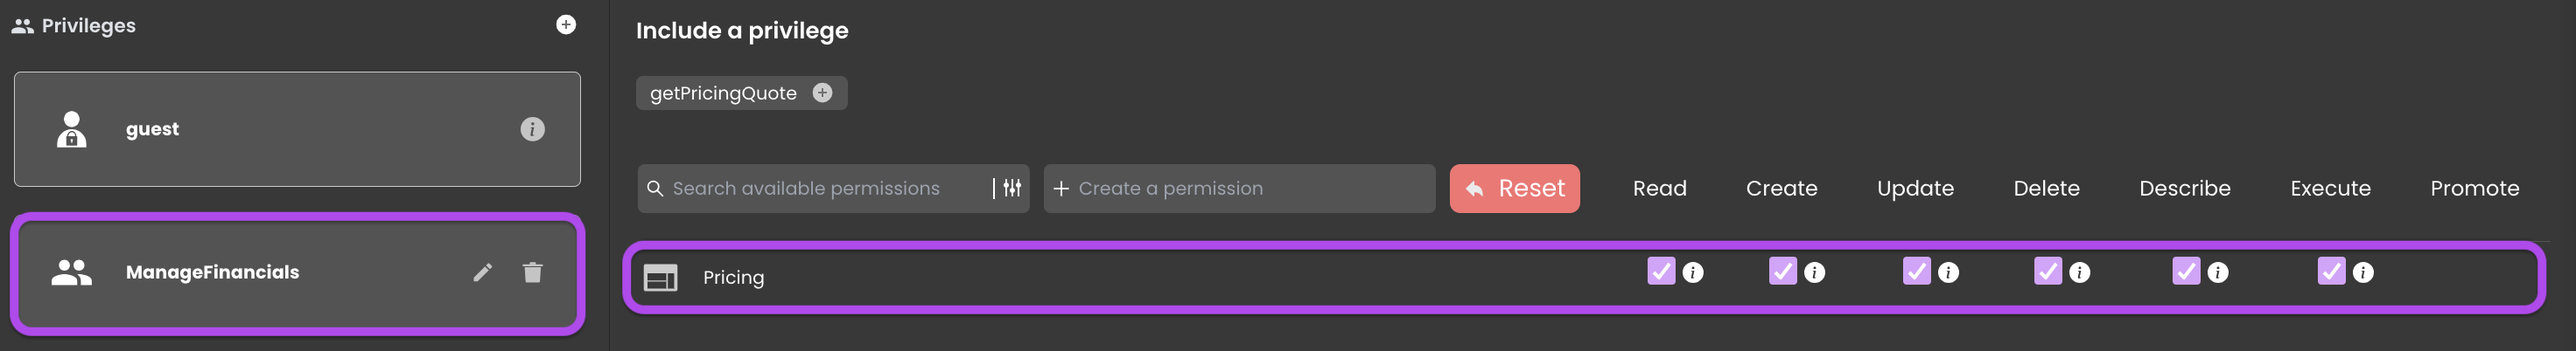
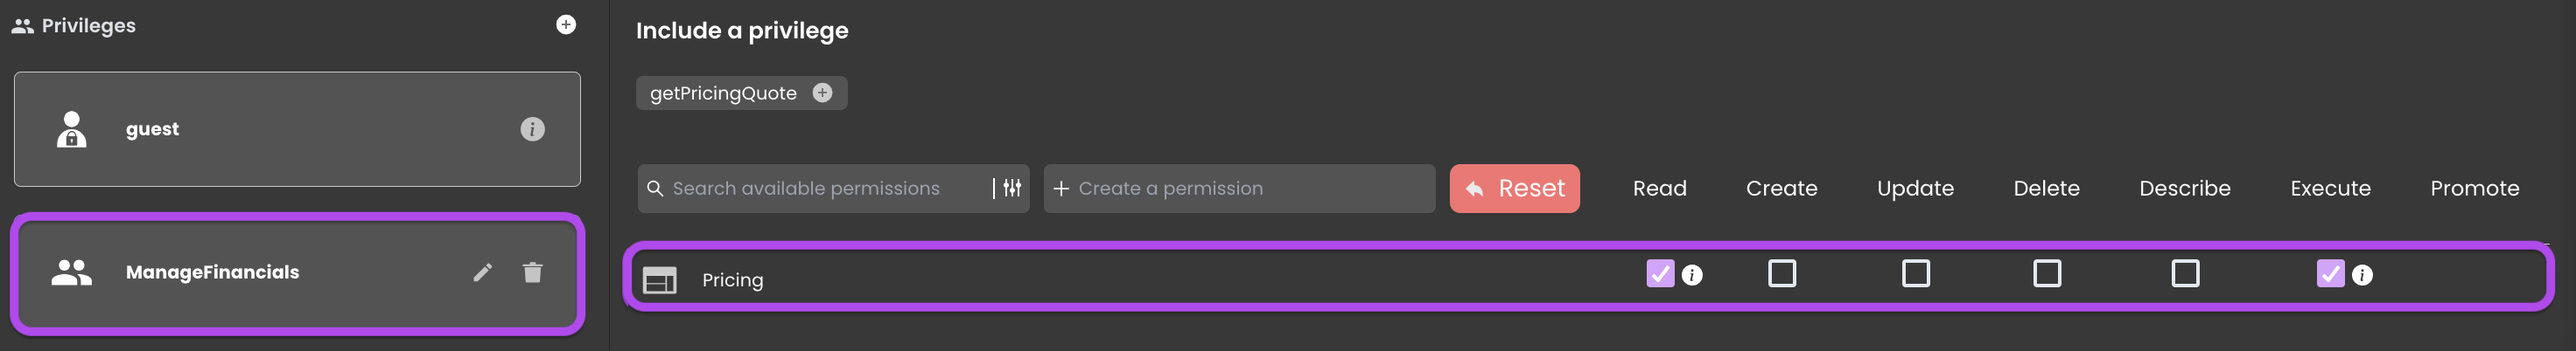
Describe Permission Use Case

Changed region(s): [[0.25, 0.6866, 1.0, 0.8955], [0.9062, 0.7463, 0.9375, 0.806]]

diff --git a/docs/studio/roles/permissionsFunctionLevel.md b/docs/studio/roles/permissionsFunctionLevel.md
@@ -20,11 +20,69 @@ To configure **Function** Permissions for a specific privilege, follow these ste
 The <img src={require('./img/function.png').default} style={{borderRadius: '6px', width:'3%'}} /> icon in the dropdown list indicates **Function** ressources.
 :::
 
-## Max Restriction to Gradual Expansion
+### Execute Permission
+
+Execute permissions allow the designated privilege to run the function's code <img src={require('./img/executeFunction.png').default} style={{borderRadius: '6px', width:'5%'}} />.
+
+:::info
+
+<Column.List align="center" justifyContent="between">
+    <Column.Item width="65%">
+        If the Execute function permission checkbox has the <img src={require('./img/functionPermission_promotedIcon.png').default} style={{borderRadius: '6px', width: '4%'}} /> icon on the right, it signifies that the <a href="#promote-permission">function has been promoted by another privilege</a>. Hover over the privilege name, and clicking on it will redirect you to the privilege promoting the function.
+    </Column.Item>
+    <Column.Item width="30%"> 
+        <img src={require('./img/functionPermission_goToPrivilege.png').default} style={{borderRadius: '6px'}} />
+    </Column.Item>
+</Column.List>
+
+:::
+
+### Promote Permission
+
+Promote permissions enable temporary privilege escalation during function execution <img src={require('./img/promoteFunction.png').default} style={{borderRadius: '6px', width:'5%'}} />, ensuring the secure performance of critical operations within that function's code without permanently adding privileges.
+
+:::info
+Upon executing a specific function within a session with a designated privilege, Qodly dynamically integrates the privileges that `Promote` the function into the session. This temporary elevation allows the function's execution, even when the original session's privilege lacks direct permission for resources in that function code.
+
+After the function concludes, the temporary elevation from the `Promote` permission is revoked.
+:::
+
+<Column.List align="center" justifyContent="between">
+    <Column.Item width="65%">
+        A function can be promoted from multiple privileges. In such cases, there's no hierarchy determining priority.
+        <br/> 
+        Instead, the session experiencing temporary privilege elevation during function execution, will have access to all resource permissions set in each of the promoting privileges.
+    </Column.Item>
+    <Column.Item width="30%">
+        <img src={require('./img/functionPermission_promotedFromMultiple.png').default} style={{borderRadius: '6px'}} />
+    </Column.Item>
+</Column.List>
+
+<br/> 
+
+:::tip
+Refer to the use case of the [`Promote`](#promote-permission-use-case) permission for detailed configuration information.
+:::
+
+### Describe Permission
+
+Describe permissions provide metadata access for the selected function <img src={require('./img/describeFunction.png').default} style={{borderRadius: '6px', width:'5%'}} />.
+
+:::tip
+Refer to the use case of the [`Describe`](#describe-permission-use-case) permission for detailed configuration information.
+:::
+
+## Strategies 
+
+### Max Restriction to Gradual Expansion
 
 To control function execution, the **DataStore** level is configured exclusively for the `Restricted` privilege, ensuring that only roles with this privilege can execute functions, thus preventing any unauthorized access.
 
 <img src={require('./img/functionPermission_maxRestriction.png').default} style={{borderRadius: '6px'}} />
+
+<br/><br/>
+
+:::info
 
 <Column.List align="center" justifyContent="between">
     <Column.Item width="65%">
@@ -35,7 +93,7 @@ To control function execution, the **DataStore** level is configured exclusively
     </Column.Item>
 </Column.List>
 
-<br/>
+:::
 
 However, to accommodate scenarios where the `Agent` role needs to execute functions, such as the `book` function within the `roomOptions` Entity class, a gradual expansion involves adding the `book` function resource and checking the execute permission. 
 
@@ -44,75 +102,44 @@ However, to accommodate scenarios where the `Agent` role needs to execute functi
 <br/><br/>
 
 :::info 
-In this context, the `agent` privilege overrides function permissions set at the **DataStore** level (`Restricted`).
+In this context, the `bookRoomOption` privilege overrides function permissions set at the **DataStore** level (`Restricted`).
 :::
 
-## Full Access to Gradual Restriction
+### Full Access to Gradual Restriction
 
 If no `Execute` permission is set at any level, it grants full access to all functions defined throughout the Model. Gradual restriction involves using other privileges to restrict specific function execution, as seen in the `Employee` DataClass, where the `register()` function execution is restricted to specific privileges.
 
 
+
 ## Promote Permission Use Case
 
-### Purpose
-
-Promote permissions enable temporary privilege escalation during function execution, ensuring the secure performance of critical operations within that function's code without permanently adding privileges.
-
-:::info
-Upon executing a specific function within a session with a designated privilege, Qodly dynamically integrates the privileges that `Promote` the function into the session. This temporary elevation allows the function's execution, even when the original session's privilege lacks direct permission for resources in that function code.
-
-After the function concludes, the temporary elevation from the `Promote` permission is revoked.
-:::
-
-
-### Background
+### Scenario Overview
 
 In a travel agency's system, dynamic pricing analysis recalculates travel package prices based on demand, seasonal trends, and competitor pricing. Key roles include:
 
-- The `Sales Manager` role fully controls the `Pricing` Dataclass and its `analyzePricing` function, ensuring confidentiality. Access to this Dataclass is strictly restricted from the `Agent` role.
+- The `Sales Manager` role fully controls Read access to the `Pricing` Dataclass, including the execution of its functions (Dataclass functions, entity functions, and entity selection functions), such as the `analyzePricing` function, to ensure confidentiality.
 
-- In specific scenarios, the `Agent` role may need to perform a pricing analysis, responding to special requests.
+- Although the `Agent` role is restricted from accessing the `Pricing` Dataclass, there are specific scenarios where the `Agent` may need to utilize the `analyzePricing` function to conduct a pricing analysis in response to special requests.
 
 ### Promote Permission Configuration
 
-If an `Agent` receives a special request from a high-value customer, they need `Execute` permission for the `analyzePricing` function to generate a customized pricing quote. This allows users with the `Agent` role to directly execute the function.
+If an `Agent` receives a special request, they need `Execute` permission for the `analyzePricing` function to generate a customized pricing quote. This allows users with the `Agent` role to directly execute the function.
 
 <img src={require('./img/functionPermission_maxRestriction5.png').default} style={{borderRadius: '6px'}} />
 
-However, due to restricted access to the `Pricing` Dataclass limited to the `Sales Manager` role, executing the function code attempting to read data from it would result in a "No permission to read" error:
+However, due to restricted access to the `Pricing` Dataclass limited to the `Sales Manager` role:
 
 <img src={require('./img/functionPermission_maxRestriction6.png').default} style={{borderRadius: '6px'}} />
 
-It becomes essential to include `Promote` permission for the `analyzePricing` function within the `ManageFinancials` privilege:
+Executing the function code attempting to `Read` data from it would result in a `No permission to read for the Pricing dataclass` error.
+
+Therefore, It becomes essential to include `Promote` permission for the `analyzePricing` function within the `ManageFinancials` privilege:
 
 <img src={require('./img/functionPermission_maxRestriction7.png').default} style={{borderRadius: '6px'}} />
 
-This configuration explicitly specifies that when the `analyzePricing` function is executed within a session holding the `Agent` role, which lacks permission for the `Pricing` resource, it temporarily integrates the `ManageFinancials` privilege into that session during function execution. This temporary elevation allows the function to be executed without granting permanent access.
-
-## Handy Tips
-
-:::tip
-Add the `Execute` permission in the privilege associated with the role that needs to directly perform the function. Meanwhile, the `Promote` permission is configured in the privilege that grants broader control over the resources involved in the function, providing a temporary elevation of privileges during the function's execution.
-:::
+<br/><br/>
 
 :::info
-If you have set permissions for the `Describe` action, which may be the case when access controllers want to truly conceal the information, then all functions you execute must have at least the same permission level as the `Describe`.
-:::
-
-:::info
-<Column.List align="center" justifyContent="between">
-    <Column.Item width="65%">
-        A function can be promoted from multiple privileges. In such cases, there's no hierarchy determining priority.  
-        The session experiencing temporary privilege elevation during function execution, will have access to all resource permissions set in each of the promoting privileges.
-    </Column.Item>
-    <Column.Item width="30%">
-        <img src={require('./img/functionPermission_promotedFromMultiple.png').default} style={{borderRadius: '6px'}} />
-    </Column.Item>
-</Column.List>
-:::
-
-:::info
-
 <Column.List align="center" justifyContent="between">
     <Column.Item width="65%">
         The <img src={require('./img/functionPermission_promotedIcon.png').default} style={{borderRadius: '6px', width: '4%'}} /> icon indicates that the function has been promoted by another privilege. Hover over the privilege name, and clicking on it will direct you to the privilege promoting the function.
@@ -121,5 +148,55 @@ If you have set permissions for the `Describe` action, which may be the case whe
         <img src={require('./img/functionPermission_goToPrivilege.png').default} style={{borderRadius: '6px'}} />
     </Column.Item>
 </Column.List>
-
 :::
+
+This configuration explicitly specifies that when the `analyzePricing` function is executed within a session holding the `Agent` role, which lacks permission for the `Pricing` resource, it temporarily integrates the `ManageFinancials` privilege into that session during function execution. This temporary elevation allows the function to be executed without granting permanent access.
+
+:::tip
+Add the `Execute` permission in the privilege associated with the role that needs to directly perform the function. Meanwhile, the `Promote` permission is configured in the privilege that grants broader control over the resources involved in the function, providing a temporary elevation of privileges during the function's execution.
+:::
+
+
+## Describe Permission Use Case
+
+The `Describe` permission gives a privilege the ability to gather metadata about the structure and attributes of Dataclasses.
+
+### Scenario Overview
+
+In this scenario, the `Describe` permission is restricted to privilege `A` for the metadata of the `Pricing` Dataclass:
+
+<img src={require('./img/describePermissionUseCase1.png').default} style={{borderRadius: '6px'}} />
+
+This limitation means that only privilege `A` is allowed to read the metadata associated with the `Pricing` Dataclass, covering Dataclass functions, Entity functions, and Entity Selection functions.
+
+### Consequence of Limited Permission
+
+Despite privilege `B` having the necessary permissions to execute the function, and the function being promoted, an error is triggered:
+
+<img src={require('./img/describePermissionUseCase2.png').default} style={{borderRadius: '6px'}} />
+
+This error results from the absence of the `Describe` permission for the `Pricing` Dataclass within privilege `B`:
+
+<img src={require('./img/describePermissionUseCase3.png').default} style={{borderRadius: '6px'}} />
+
+This prevents it from retrieving crucial metadata, including the Dataclass name. Consequently, it fails to recognize the existence of the `Pricing` Dataclass and, by extension, the associated function during execution.
+
+### Solutions
+
+#### Solution 1: Granting Describe Permission
+
+To address this issue, grant privilege `B` the necessary `Describe` permission for the `Pricing` Dataclass. This permission allows privilege `B` to access metadata, including the Dataclass name and its functions, enabling the successful execution of functions within the `Pricing` Dataclass.
+
+#### Solution 2: Higher Permission Level
+
+If `Describe` permission is configured for total confidentiality, and privilege `B` shouldn't have access to it, then all functions must have a higher permission level than the restricted resource - the `Pricing` Dataclass.
+
+To overcome these limitations, place the function in the DataStore function and update the function appointed to privilege `B`, displaying `ds.analyzePricing` instead of `Pricing.analyzePricing`:
+
+<img src={require('./img/describePermissionUseCase4.png').default} style={{borderRadius: '6px'}} />
+
+This way, you get broader access because the DataStore has a higher permission level compared to any Dataclass.
+
+Likewise, if you aim to restrict the `Describe` permission for the `Price` Attribute in the `Pricing` Dataclass, place the function either in the `Pricing` Dataclass function or the DataStore function:
+
+<img src={require('./img/describePermissionUseCase5.png').default} style={{borderRadius: '6px'}} />
